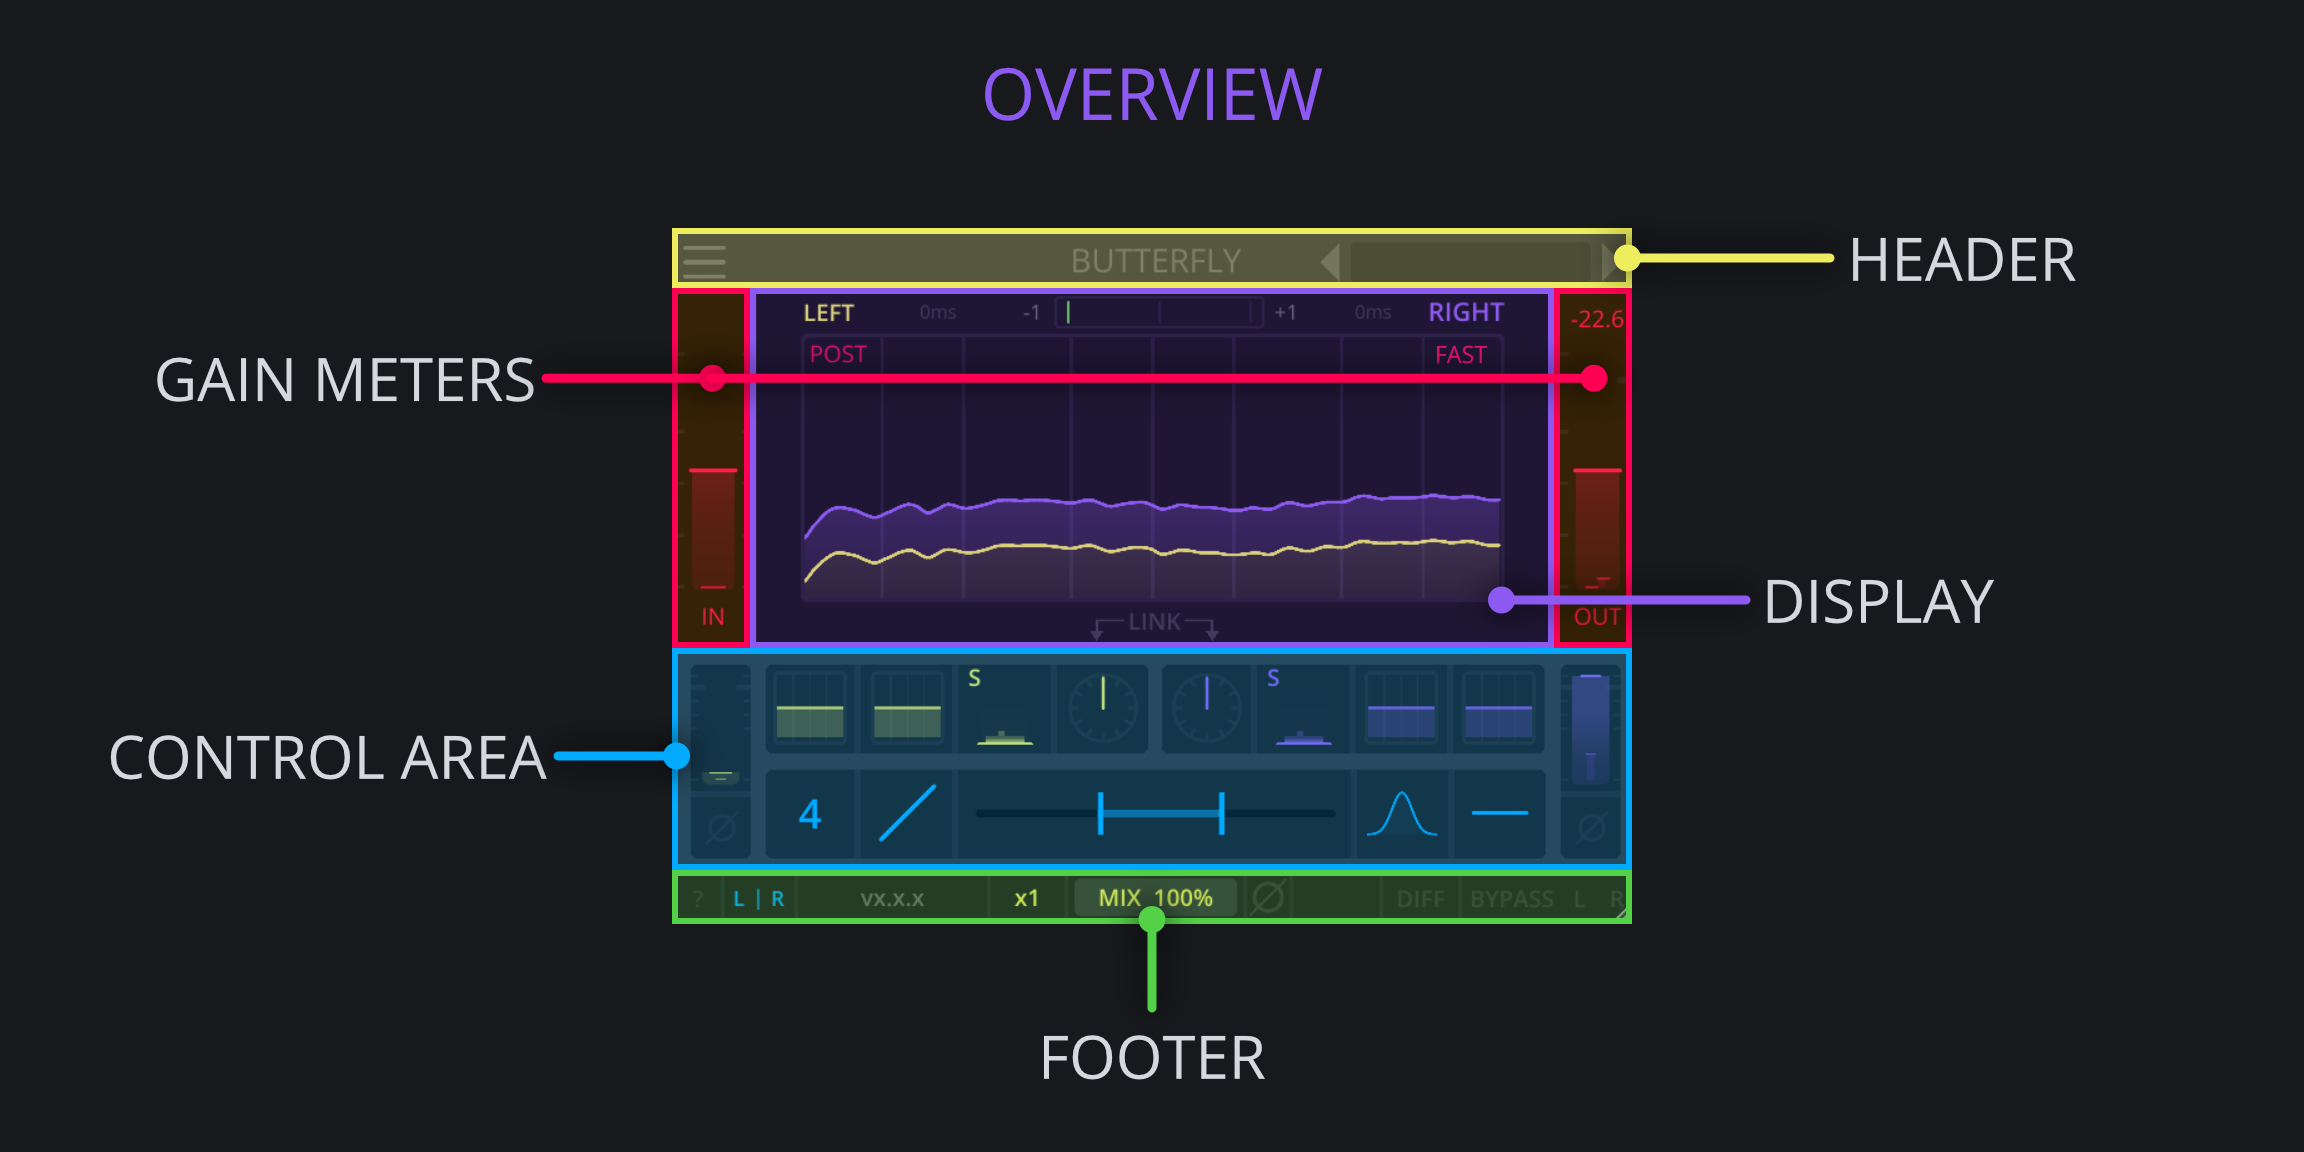
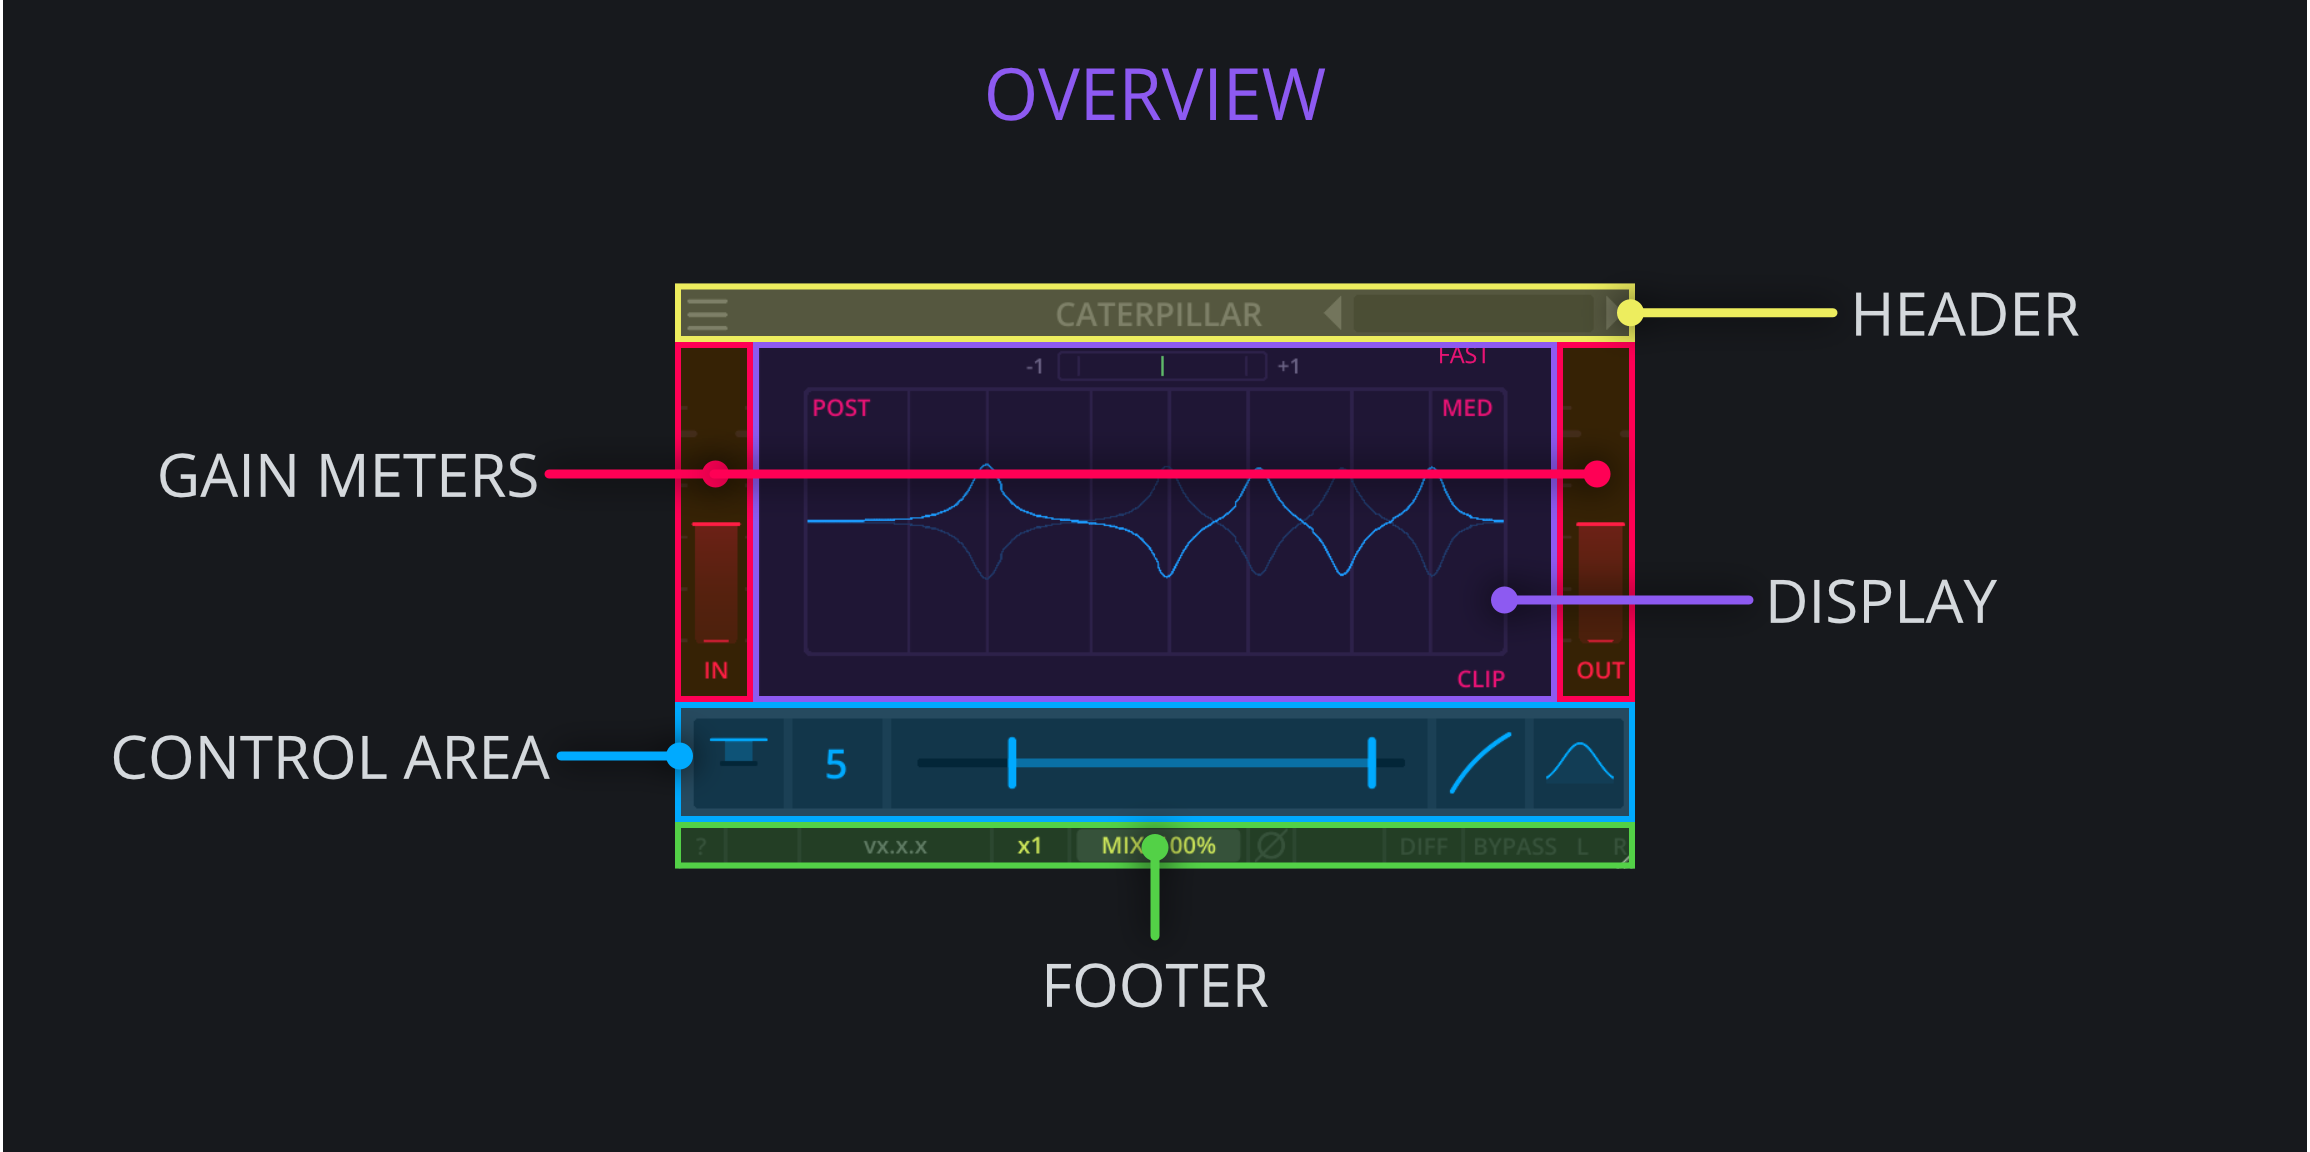
Updated Caterpillar images

diff --git a/caterpillar/03_70_controls_footer.md b/caterpillar/03_70_controls_footer.md
@@ -1,0 +1,105 @@
+<h2 class="txt-green">Footer</h2>
+<div class="image">
+![](assets/caterpillar_footer.png)
+</div>
+
+The footer component contains a set of controls that
+enhance the workflow such as flipping the phase/polarity, switching between Left-Right and Mid-Side processing, enabling delta/diff mode, bypassing the complete plugin or individual channels and finally a global dry/wet mix.
+
+### ?-Button
+<span class="location">*(Located left in the Footer)*</span>\
+<div class="block controls bg-dark-2">
+- <span class="item">Left-Click:</span> Toggle 'Help' mode.
+</div>
+When enable, 'Help' mode will display explanations directly within the plugin window when hovering over a widget.
+<span class="spacer"/>
+
+### Version
+<span class="location">*(Located left in the Footer)*</span>\
+Displays the current version of the plugin. If 'Help' mode is enabled via the **?**-button, the
+explanation will display the exact commit-hash of the plugin.
+<span class="spacer"/>
+<div class="pb"></div>
+
+### Oversampling-Slider
+<span class="location">*(Located left-ish in the Footer)*</span>\
+<div class="block controls bg-dark-2">
+- <span class="item">Left-Click and Drag Left/Right:</span> Change Oversampling value.
+</div>
+The max oversampling value varies depending on the plugin. A value of **1x** will always
+indicate no oversampling.
+
+The oversampling process includes filters aimed at removing upsampling artifacts as well as
+removing useless frequency content introduced by the oversampling process. For this purpose,
+Darkpalace Studio plugins use FIR filters for oversampling.
+
+Increasing oversampling will introduce additional delay and increases processing requirements.
+The delay is reported to the host to be automatically compensated for by most modern DAWs.
+
+<div class="quote bg-yellow">
+Please note that a change in oversampling can result in short audio-dropouts. It is not
+advices to automate this control.
+</div>
+<span class="spacer"/>
+
+### Mix-Slider
+<span class="location">*(Located center of the Footer)*</span>\
+<div class="block controls bg-dark-2">
+- <span class="item">Left-Click and Drag Left/Right:</span> Change Mix value.
+</div>
+The Mix slider allows for blending between an unprocessed (dry) and fully processed (wet) signal, allowing for parallel processing behaviour.
+<span class="spacer"/>
+
+### Phase-Button
+<span class="location">*(Located right of the Mix slider)*</span>\
+<div class="block controls bg-dark-2">
+- <span class="item">Left-Click: </span> Cycle thruogh Phase modes.
+</div>
+All Darkpalace Studio plugin support 3 different phase modes for processing:
+<div class="block bg-dark-1">
+- <span class="txt-purple">No-Phase:</span> Leave signal as is, no change.
+- <span class="txt-purple">Pre-Phase:</span> Inverts the polarity at the input stage, before processing.
+- <span class="txt-purple">Post-Phase:</span> Inverst the polarity at the output statge, after the mix.
+</div>
+
+The different phase options allow to create interesting results when mixing the processed signal with the dry signal or using the **DIFF** option.
+<div class="pb"></div>
+
+### Diff-Button
+<span class="location">*(Located right in the Footer)*</span>\
+<div class="block controls bg-dark-2">
+- <span class="item">Left-Click: </span> Toggle Difference/Delta mode.
+</div>
+When enabled the plugin will not output the processed signal, but instead the difference between the unprocessed and processed signal, effectively providing the difference (or delta) of the processing.
+
+<div class="quote bg-yellow">
+Note that **DIFF** is applied *before* the **MIX** slider. This allows to blend the delta-signal with the dry signal for additional parallel processing options.
+</div>
+
+### Bypass-Button
+<span class="location">*(located right in the Footer)*</span>\
+<div class="block controls bg-dark-2">
+- <span class="item">Left-Click: </span> Toggle Bypass.
+</div>
+When Bypass mode is enabled, the input signal is directly routed to the output, bypassing the entire
+signal processing chain. Additionally, the plugin will also turn grey-scale indicating its state.
+
+<div class="quote bg-yellow">
+Note that internal oversampling and process mode conversion will still be performed, even if bypass is enabled.
+</div>
+
+Most DAWs offer the option to bypass a plugin. However this will also bypass oversampling, potentially resulting in clicks.
+The internal bypass avoids this issues.
+<span class="spacer"/>
+
+#### Individual Channel Bypass
+<span class="location">*(located right in the Footer)*</span>\
+<div class="block controls bg-dark-2">
+- <span class="item">Left-Click: </span> Toggle Bypass an individual Channel.
+</div>
+
+This allows to bypass an individual channel, based on the Processing Mode. 
+Thus it is possible to bypass none, one or both of L/R or M/S channels, giving plenty of options, 
+e.g. just processing the Mid channel. 
+Additionally, the bypassed channel will be highlighted indicating its state.
+<div class="pb"></div>

diff --git a/caterpillar/03_63_controls_spreadeq.md b/caterpillar/03_63_controls_spreadeq.md
@@ -1,6 +1,6 @@
 <h3 class="txt-blue">Spread EQ</h2>
 <div class="image">
-![](assets/butterfly_spread_eq_controls.png)
+![](assets/caterpillar_spread_eq_controls.png)
 </div>
 </div>
 The spread EQ applies a series of bell shaped EQs to the left and right channels of a track. Note that the spread EQ is always applied to the left and right channel, regardless of the selected processing mode.

diff --git a/caterpillar/00_cover.md b/caterpillar/00_cover.md
@@ -3,7 +3,7 @@ xnos-number-offset: 0
 ---
 <div class="cover">
   <h1 class="title">Caterpillar Manual</h1>
-  <div class="image">![](assets/butterfly.png)</div>
+  <div class="image">![](assets/caterpillar.png)</div>
   <span class="version">Version 1.0.0</span>
 </div>
 

diff --git a/caterpillar/03_50_controls_display.md b/caterpillar/03_50_controls_display.md
@@ -1,6 +1,6 @@
 <h2 class="txt-blue">Display Controls</h2>
 <div class="image">
-![](assets/butterfly_display_controls.png)
+![](assets/caterpillar_display_controls.png)
 </div>
 
 ### Corelation Meter
